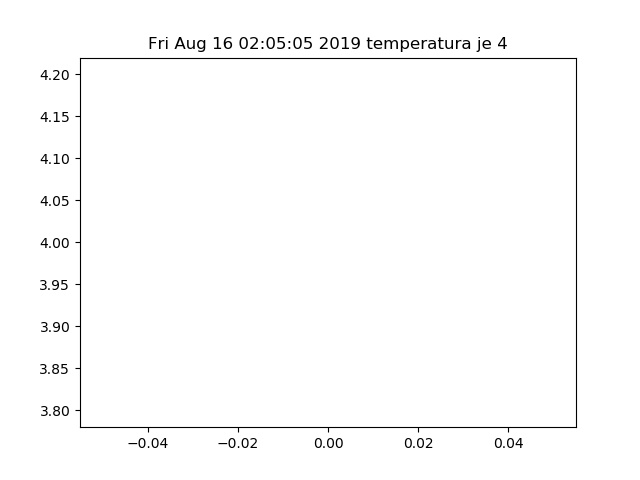
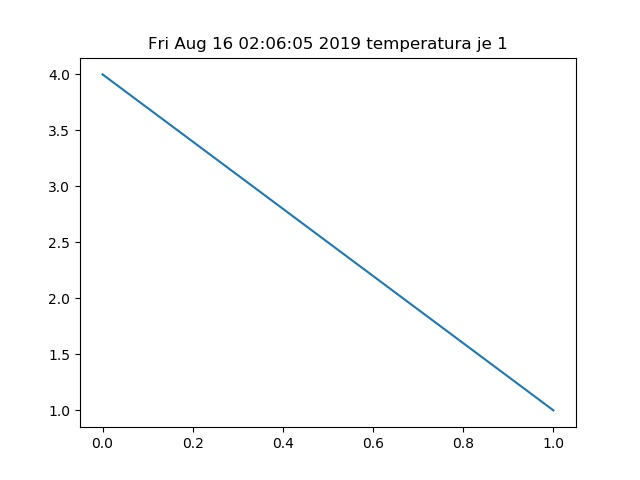
'auto'

diff --git a/README.md b/README.md
@@ -1,5 +1,5 @@
-Frizider live: 4
-20963.09 
+Frizider live: 1
+21742.975000000002 
 0
 Temperatura:
 
